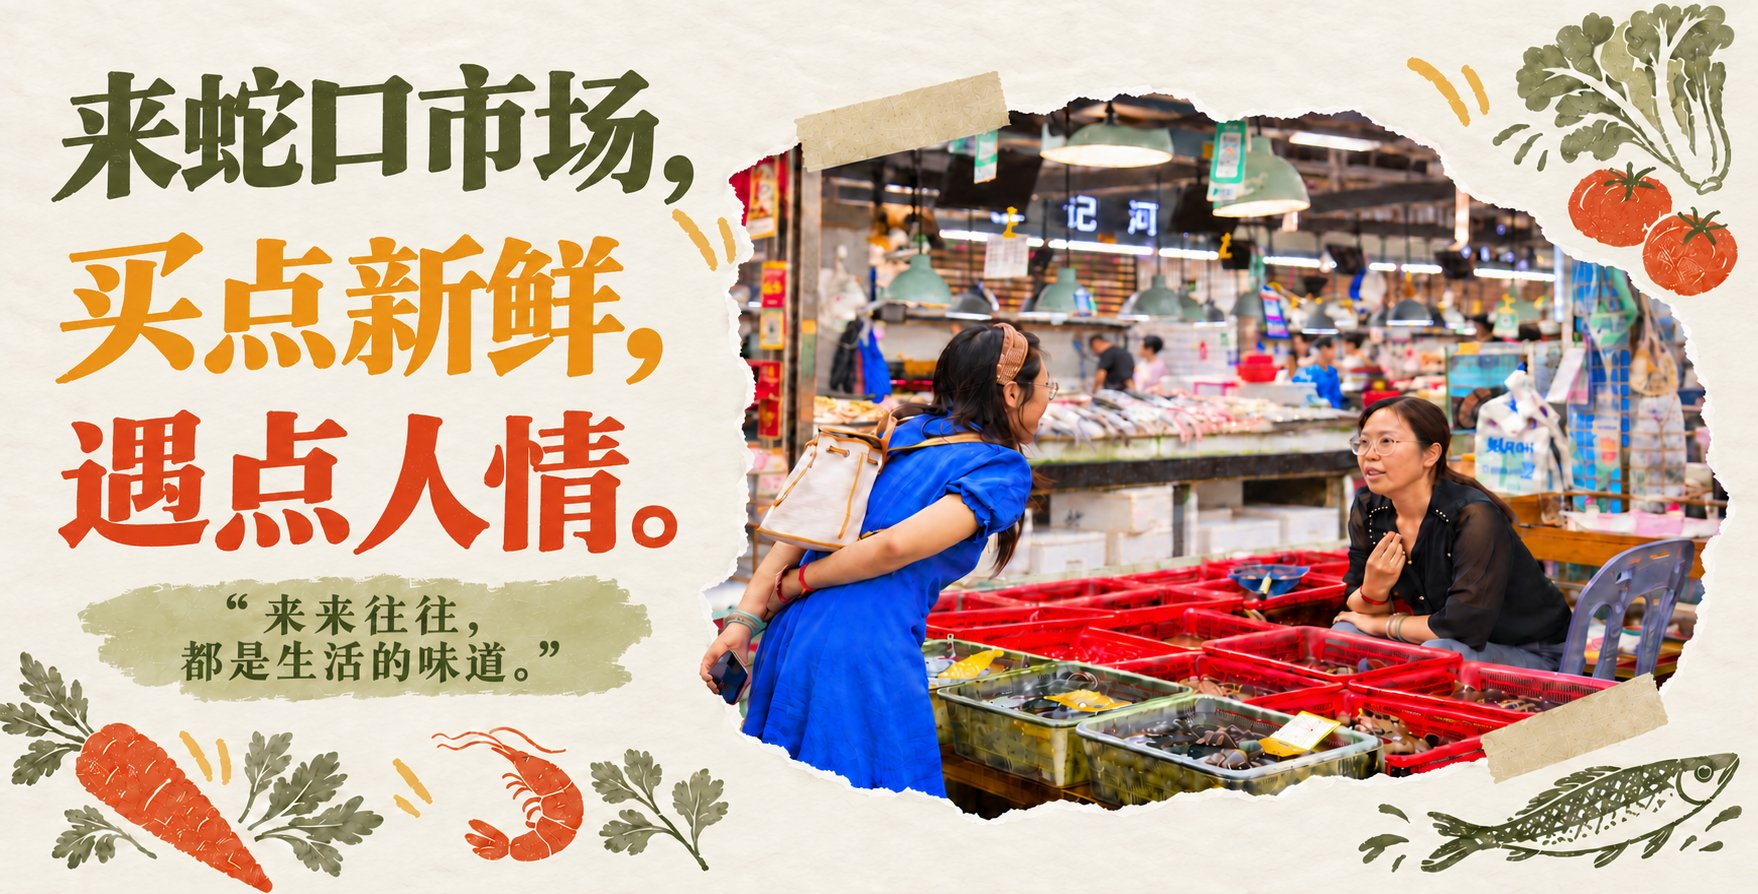
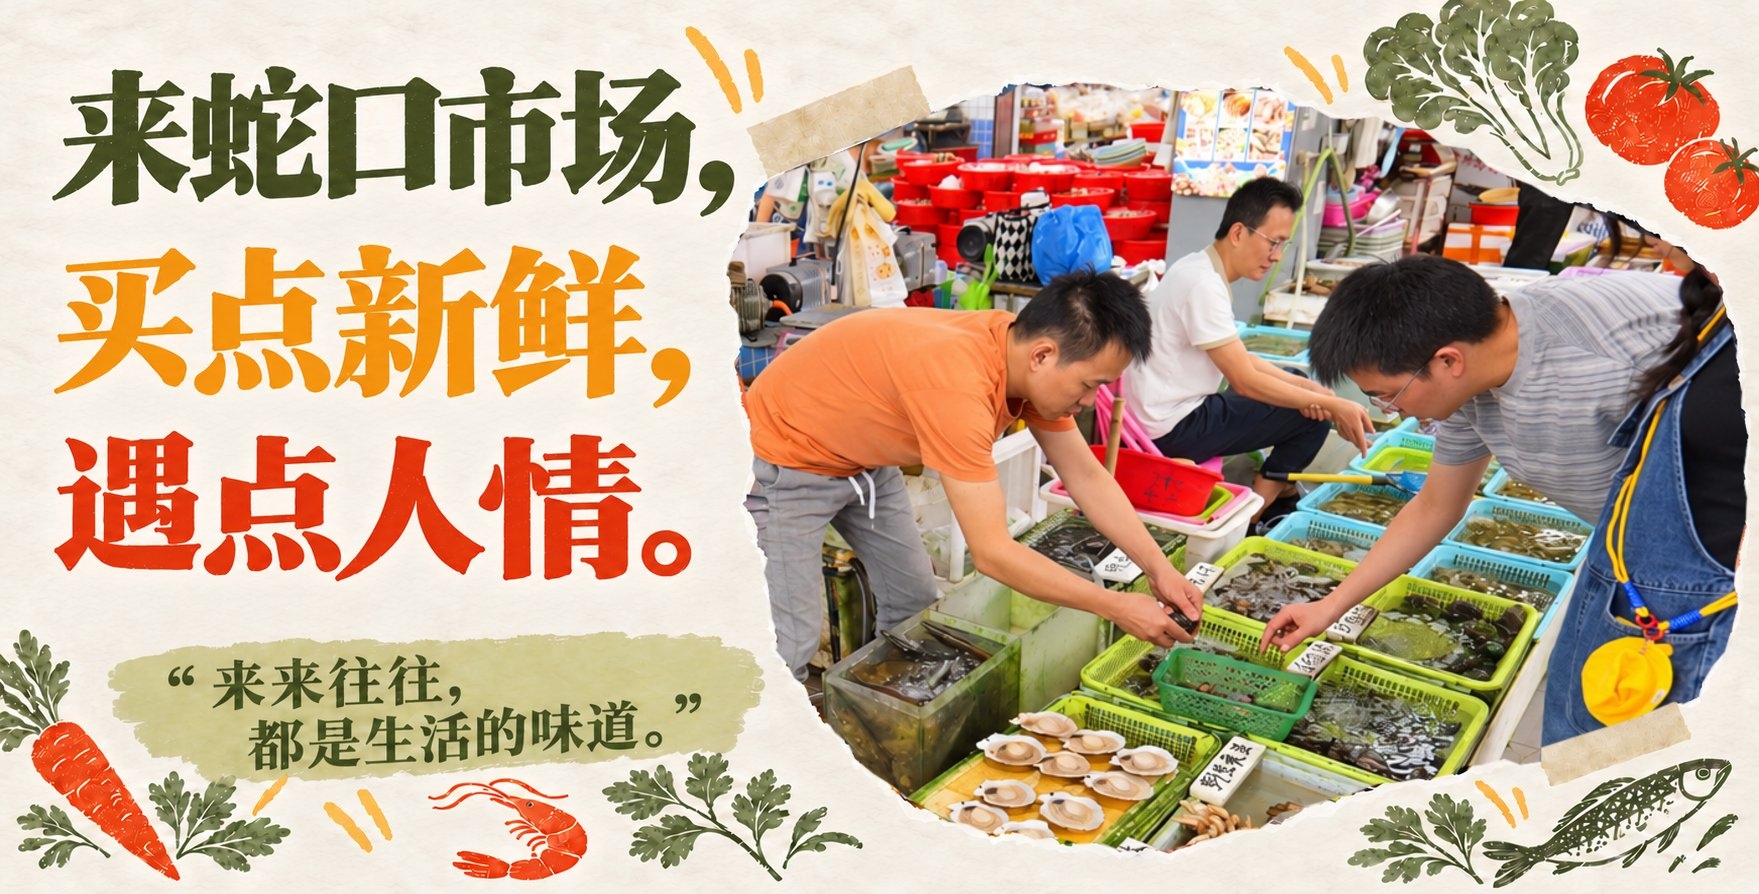
删设计预览提示条(数据已真实)+首页海报轮播:新三张替换+新增第四张举龙虾(7s/张)

diff --git a/assets/js/app.js b/assets/js/app.js
@@ -23,7 +23,7 @@ function featureCard(group,stall){
  const node=card(stall,true);
  node.dataset.categoryId=group.category.id;
  const label=node.querySelector('.sample-tag')||el('span','','sample-tag');
- label.textContent=group.category.name+(group.category.nameEn?' · '+group.category.nameEn:'')+(isPreview?' · 示意 Sample':'');
+ label.textContent=group.category.name+(group.category.nameEn?' · '+group.category.nameEn:'');
  if(!label.isConnected)node.append(label);
  return node;
 }
@@ -59,12 +59,12 @@ async function rotateSpotlight(){
 }
 document.addEventListener('visibilitychange',scheduleRotation);
 function categoryIcon(c){const name=c.name;if(/水产|海鲜|冰鲜|贝壳/.test(name))return 'fish';if(/蔬|果/.test(name))return 'leaf';if(/肉|禽|蛋/.test(name))return 'egg';if(/粮|油|干货/.test(name))return 'grains';if(/副食|调料|熟食/.test(name))return 'cooking-pot';return 'storefront';}
-function photo(asset,name){if(!asset?.localUrl){const p=el('div','','photo-empty');p.append(icon('storefront'),bi('暂无门店照片','No photo yet'));return p;}const img=el('img','','shop-photo');img.src=asset.localUrl;img.alt=(isPreview?'设计示意：':'')+name+'门店照片';img.addEventListener('error',()=>img.replaceWith(photo(null,name)),{once:true});return img;}
+function photo(asset,name){if(!asset?.localUrl){const p=el('div','','photo-empty');p.append(icon('storefront'),bi('暂无门店照片','No photo yet'));return p;}const img=el('img','','shop-photo');img.src=asset.localUrl;img.alt=name+'门店照片';img.addEventListener('error',()=>img.replaceWith(photo(null,name)),{once:true});return img;}
 function navigate(next,options={}){if(next==='detail'&&view!=='detail')detailReturn=view==='home'?'home':view==='map'?'map':'shops';if(next!==view){if(view==='home'||next==='home')fromView='home';else if(view==='menu')fromView='menu';}view=next;if(options.category!==undefined){category=options.category;query='';}if(options.selected!==undefined)selected=options.selected;if(options.floor!==undefined){floor=options.floor;zone='';}if(options.zone!==undefined)zone=options.zone;lastAction=Date.now();render();$('main').focus({preventScroll:true});}
 function renderBar(){const bar=$('categoryBar');bar.replaceChildren();if(!data.categories.length){bar.append(bi('商户分类将在资料发布后显示','Categories will appear once published','category-placeholder'));return;}for(const c of data.categories){const b=button(c.nameEn?bi(c.name,c.nameEn):c.name,()=>navigate('shops',{category:c.id}),'category-item'+(view==='shops'&&category===c.id?' selected':''),categoryIcon(c));b.setAttribute('aria-pressed',String(view==='shops'&&category===c.id));bar.append(b);}}
 function goodsText(stall){return Array.isArray(stall.goods)?stall.goods.join(' · '):(stall.goods||'');}
 function card(stall,feature=false){
- if(feature){const b=el('button','','shop-feature');b.type='button';b.setAttribute('aria-label',`查看${stall.name}详情`);const copy=el('div','','feature-copy');b.append(photo(stall.photos[0],stall.name));copy.append(el('h3',stall.name));copy.append(el('p',stall.intro||'暂无店铺介绍 No shop intro yet'));copy.append(icon('arrow-right'));b.append(copy);if(isPreview)b.append(el('span','示意','sample-tag'));b.onclick=()=>navigate('detail',{selected:stall.id});return b;}
+ if(feature){const b=el('button','','shop-feature');b.type='button';b.setAttribute('aria-label',`查看${stall.name}详情`);const copy=el('div','','feature-copy');b.append(photo(stall.photos[0],stall.name));copy.append(el('h3',stall.name));copy.append(el('p',stall.intro||'暂无店铺介绍 No shop intro yet'));copy.append(icon('arrow-right'));b.append(copy);b.onclick=()=>navigate('detail',{selected:stall.id});return b;}
  /* 找商户卡片：纯展示，不可点进详情（2026-10-31 用户要求） */
  const b=el('div','','shop-card');
  const copy=el('div','','card-copy');
@@ -79,7 +79,7 @@ function card(stall,feature=false){
 }
 function action(zhT,enT,symbol,callback,primary=false,artName=''){const b=el('button','','wayfinding'+(primary?' primary':''));b.type='button';const copy=el('span','','action-copy');const title=el('span','','action-title');title.append(bi(zhT,enT));copy.append(title);b.append(copy,icon('arrow-right','arrow'));if(artName){const img=el('img','','way-art');img.src=artFiles['../images/icon-'+artName+'.png'];img.alt='';b.append(img);}b.onclick=callback;return b;}
 /* 首页（启动页）：顶条 + 顶条下方海报照片层（轮播）+ 底部"进入市场"玻璃键，点击进入二级菜单页 */
-const HOME_PHOTOS=['./assets/images/home-bg-1.jpg','./assets/images/home-bg-2.jpg'];
+const HOME_PHOTOS=['./assets/images/home-bg-1.jpg','./assets/images/home-bg-2.jpg','./assets/images/home-bg-3.jpg','./assets/images/home-bg-4.jpg'];
 let photoTimer=null,photoIdx=0;
 function startPhotoCarousel(){
  const imgs=[...document.querySelectorAll('.home-photo img')];
@@ -230,5 +230,5 @@ function render(){document.body.classList.toggle('map-view',view==='map');docume
 $('brandHome').onclick=()=>navigate('home');for(const event of ['pointerdown','keydown','wheel'])document.addEventListener(event,()=>{lastAction=Date.now();},{passive:true});
 function clock(){const now=new Date();const zh=now.toLocaleDateString('zh-CN',{timeZone:'Asia/Shanghai',month:'long',day:'numeric',weekday:'long'});const en=now.toLocaleDateString('en-US',{timeZone:'Asia/Shanghai',month:'short',day:'numeric',weekday:'short'});const dt=$('dateText');dt.dateTime=now.toISOString();dt.replaceChildren(el('span',zh),' · ',el('span',en,'en'));const hd=$('homeDate');if(hd){hd.dateTime=now.toISOString();hd.replaceChildren(el('span',zh),' · ',el('span',en,'en'));}if(view!=='home'&&Date.now()-lastAction>120000)navigate('home');}clock();setInterval(clock,1000);
 render();
-if(isPreview){$('previewNotice').hidden=false;const {previewData}=await import('./design-preview.js');data=previewData;loadState='ready';const v=new URLSearchParams(location.search).get('view');if(v&&['home','menu','shops','map','knowledge','seafoodDetail','feedback','satisfaction','comment','impression'].includes(v))view=v;$('syncStatus').textContent='设计示意 Design preview · 非真实商户资料 Not real merchants';render();}
+if(isPreview){const {previewData}=await import('./design-preview.js');data=previewData;loadState='ready';const v=new URLSearchParams(location.search).get('view');if(v&&['home','menu','shops','map','knowledge','seafoodDetail','feedback','satisfaction','comment','impression'].includes(v))view=v;render();}
 else {const config=window.ENTRANCE_CONFIG||{};client=createMarketClient({apiBase:config.apiBase||'',marketId:config.marketId||'mkt_001',onData(next){data=next;loadState='ready';render();},onStatus(message,state){loadState=state;$('syncStatus').textContent=message;if(view==='home'&&!data.stalls.length)render();}});void client.start();window.addEventListener('online',()=>client.refresh());window.addEventListener('pagehide',event=>{if(!event.persisted)client.stop();});if('serviceWorker'in navigator&&!import.meta.env.DEV)navigator.serviceWorker.register(new URL('sw.js',document.baseURI)).catch(()=>{$('syncStatus').textContent+=' · 离线页面缓存不可用';});}

diff --git a/index.html b/index.html
@@ -7,7 +7,6 @@
 <link rel="icon" href="./assets/images/workbuddy-logo.png"><link rel="stylesheet" href="./assets/css/market.css">
 </head>
 <body>
-<div id="previewNotice" class="preview-notice" hidden>设计预览 Design Preview · 商户和照片均为示意，不代表真实经营信息 Merchants and photos are illustrative only</div>
 <div class="market-app">
 <header id="globalTopbar" class="global-topbar">
 <button class="brand" id="brandHome" aria-label="返回市场首页"><h1 id="marketName">蛇口市场</h1><span>SHEKOU MARKET</span></button>
